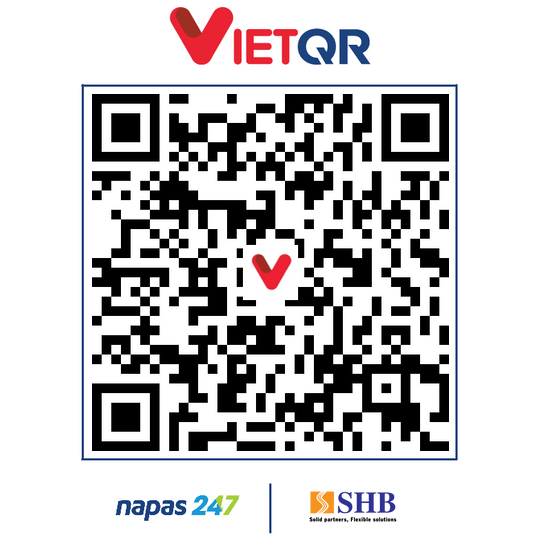
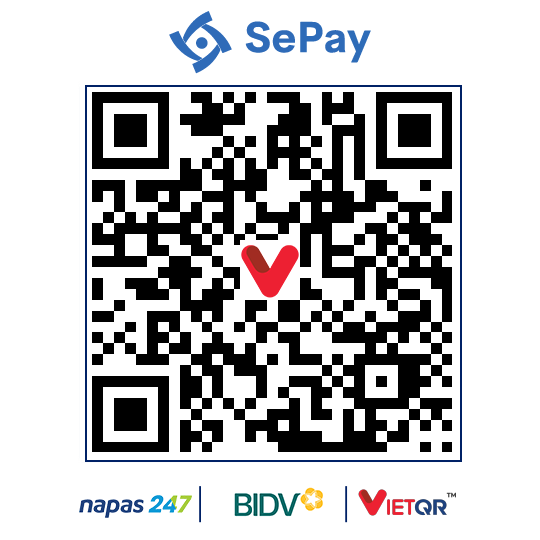
Support QR: the same BIDV account as payments
The ủng hộ mình panel now shows the SePay VietQR for BIDV 96247LT6868, with no
fixed amount and the note prefilled as "ung ho lam than".

diff --git a/index.html b/index.html
@@ -1213,7 +1213,7 @@ const VG = (() => {
 })();
 
 /* Shown under the QR in the support panel. Leave empty to hide it. */
-const BANK_LINE = "SHB · 0822446003";
+const BANK_LINE = "BIDV · 96247LT6868";
 
 /* ============ STATE ============ */
 let state;

diff --git a/src/app.html b/src/app.html
@@ -1185,7 +1185,7 @@ const VG = (() => {
 })();
 
 /* Shown under the QR in the support panel. Leave empty to hide it. */
-const BANK_LINE = "SHB · 0822446003";
+const BANK_LINE = "BIDV · 96247LT6868";
 
 /* ============ STATE ============ */
 let state;
